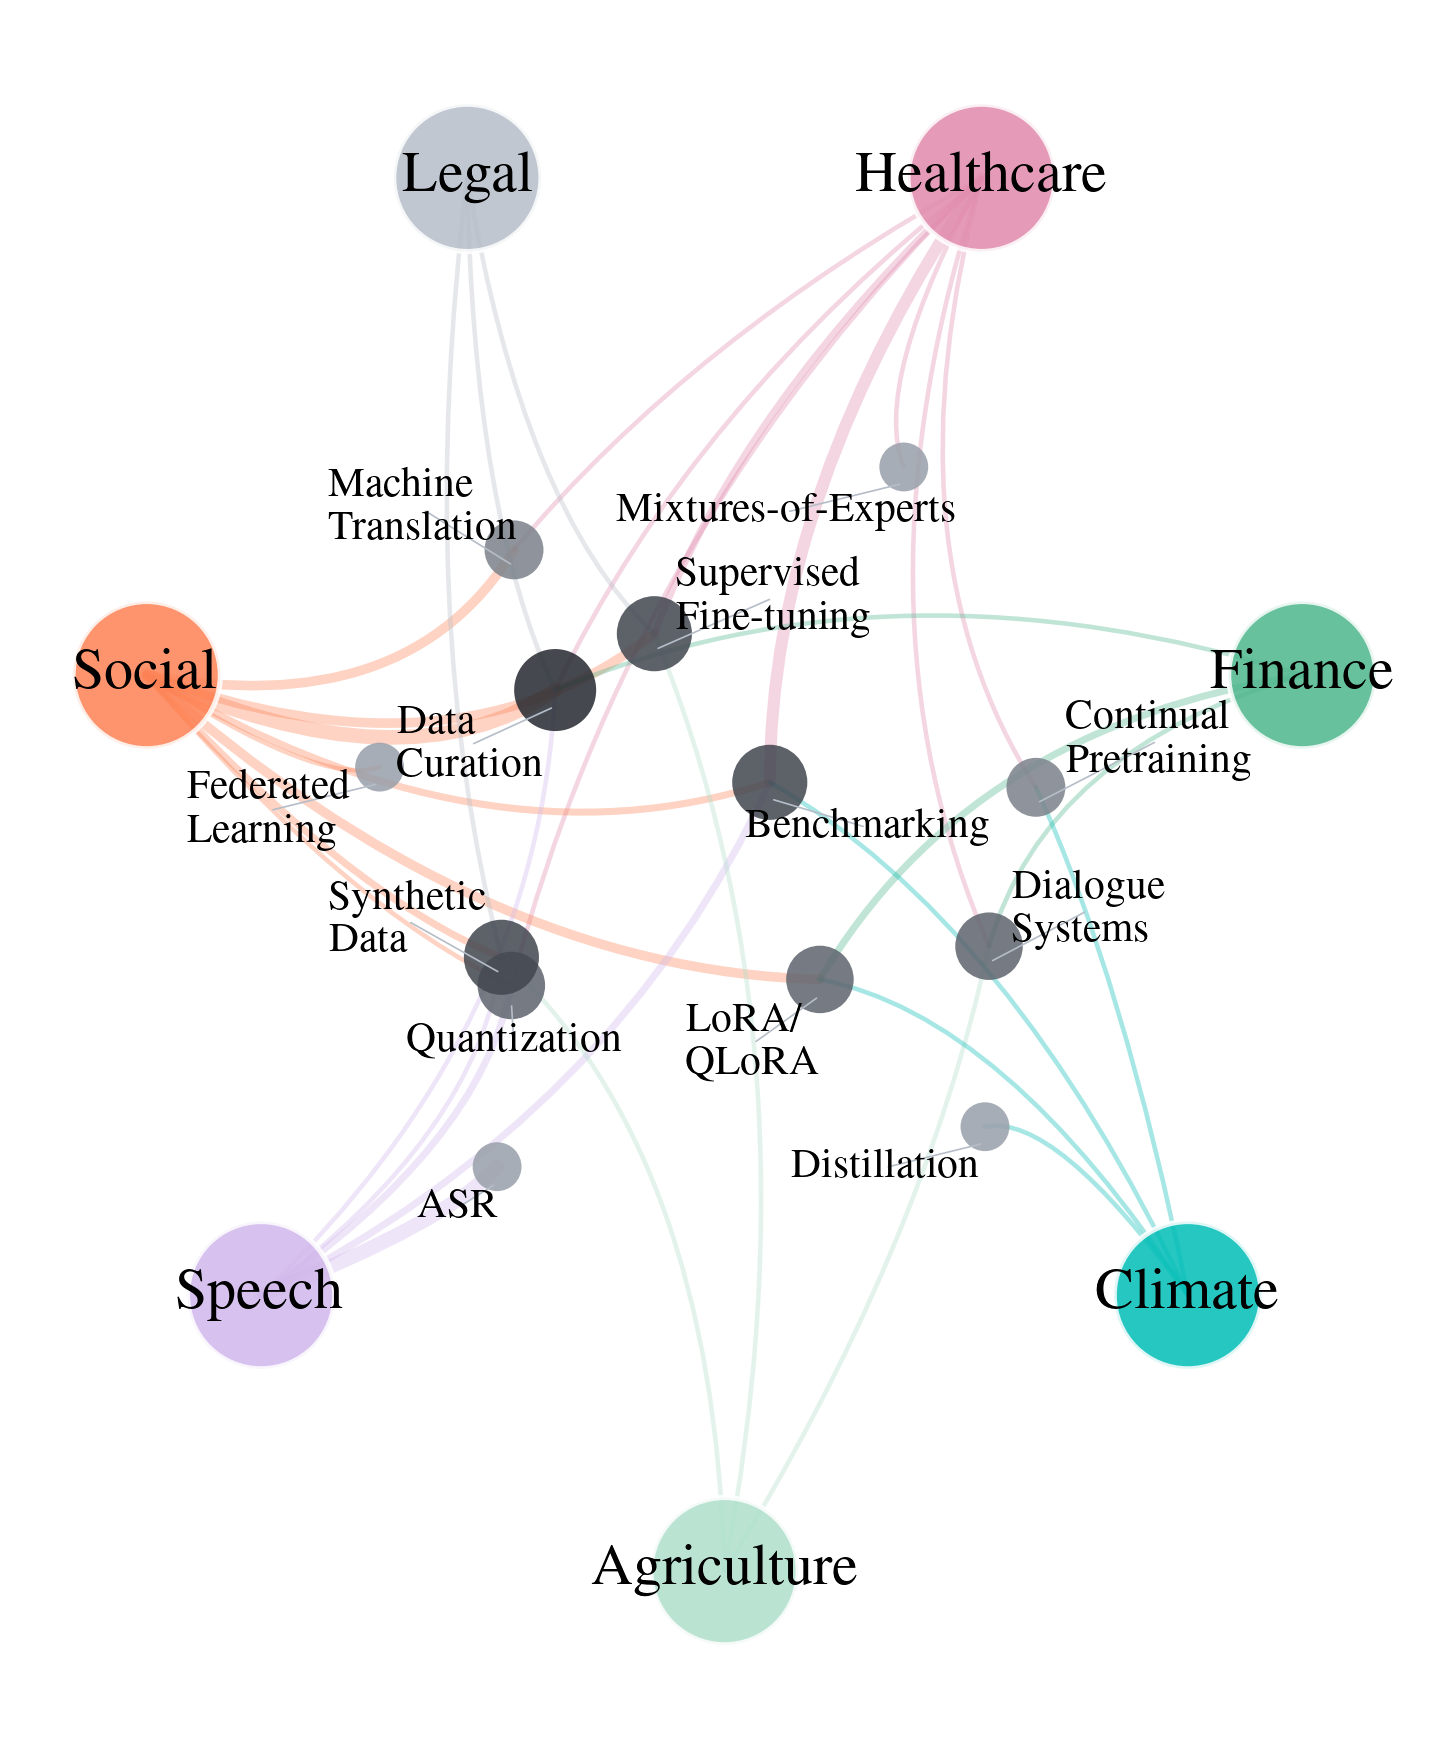
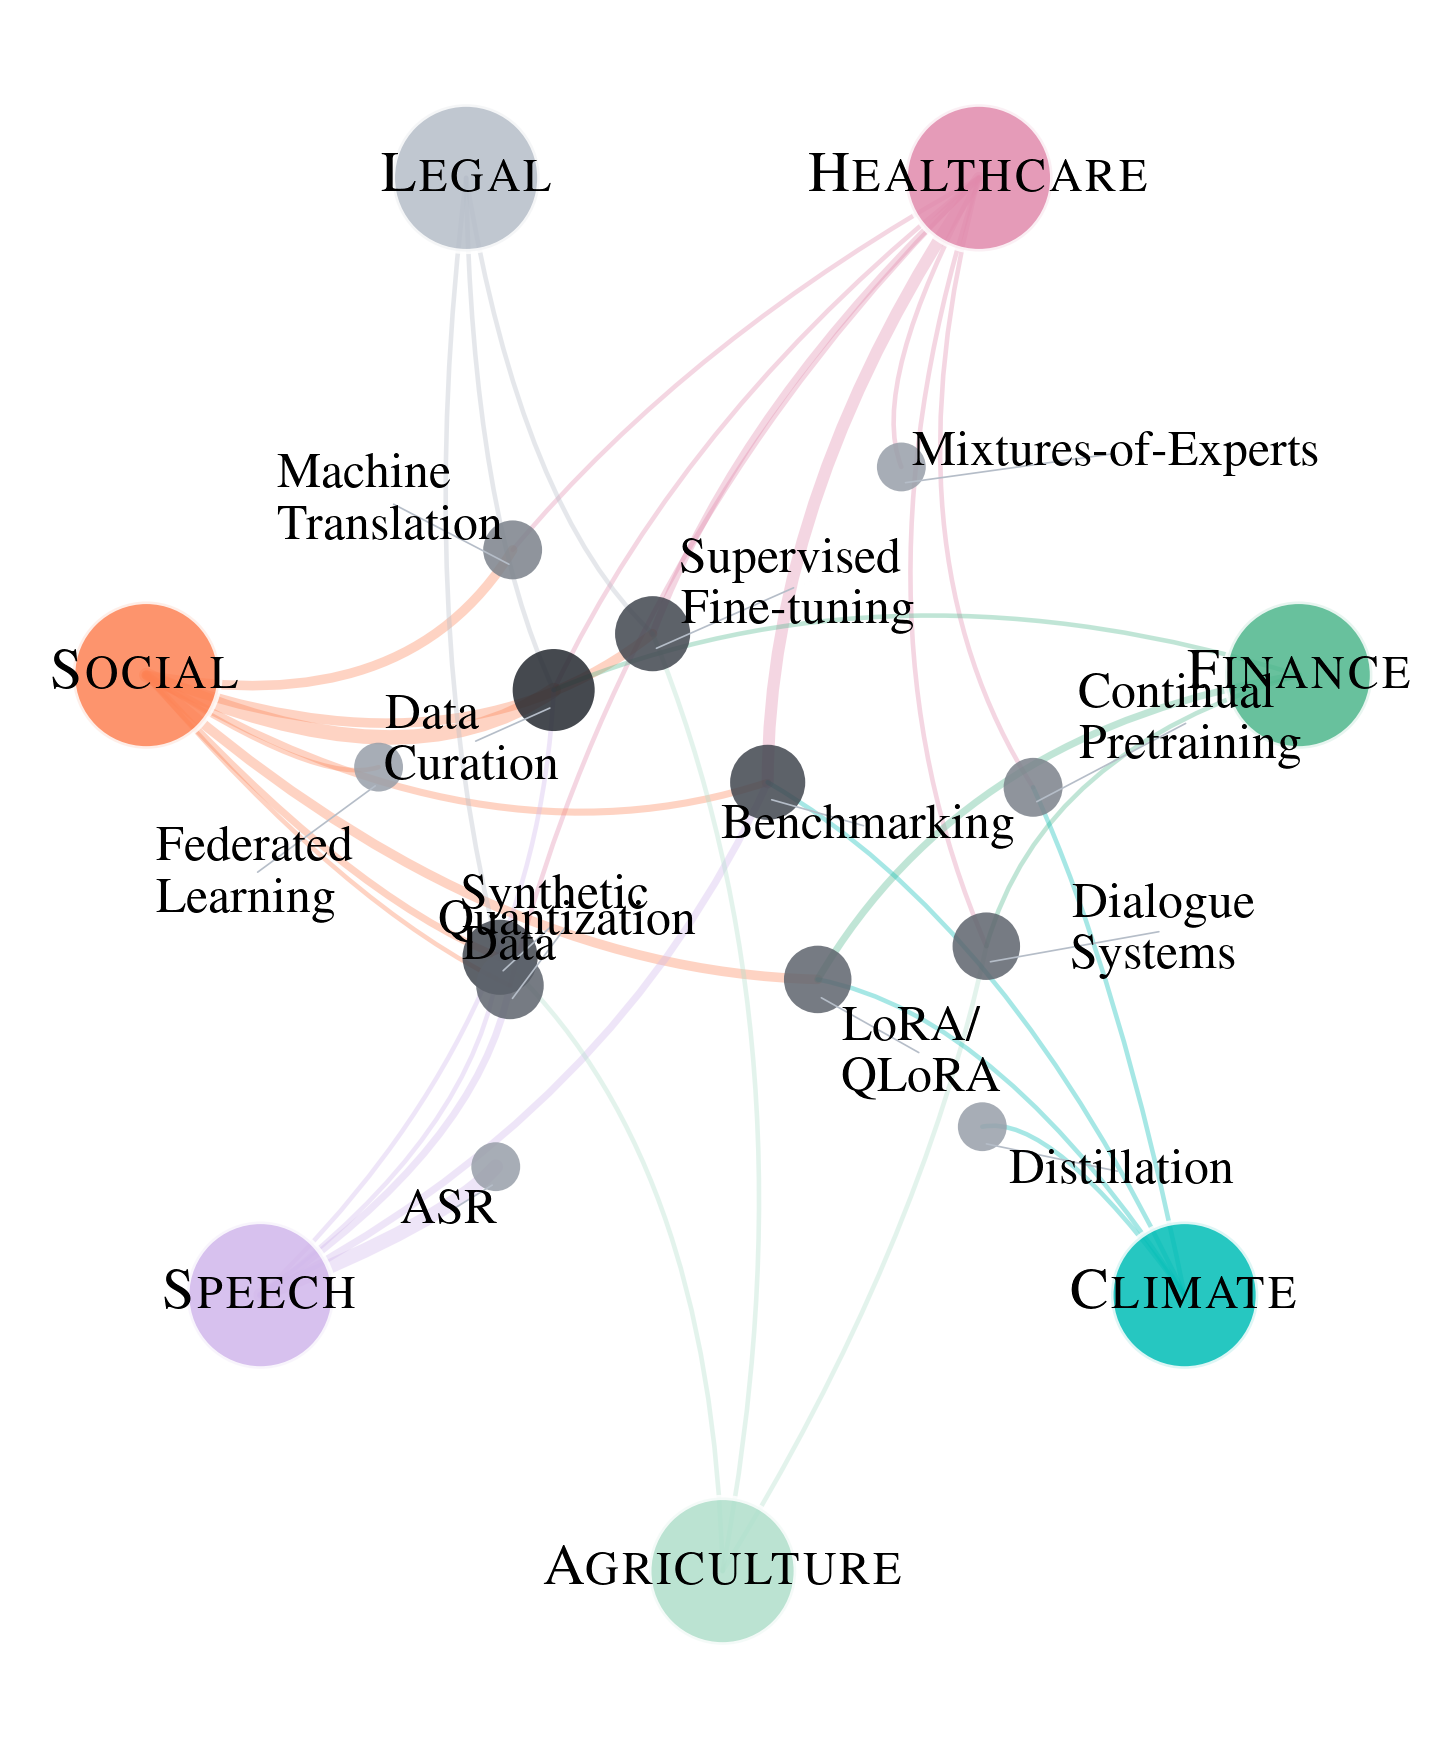
[wip] Update

diff --git a/analysis/deployment_domains.py b/analysis/deployment_domains.py
@@ -306,20 +306,21 @@ def plot_domain_technique_network(
     )
 
     # Domain labels
+    domain_texts = []
     for domain in domain_nodes:
         x, y = pos[domain]
-        ax.text(
+        dt = ax.text(
             x,
             y,
-            domain,
+            r"\textsc{" + domain + r"}",
             ha="center",
             va="center",
             fontsize=28,
-            fontweight="bold",
             fontfamily="serif",
             color="black",
             zorder=5,
         )
+        domain_texts.append(dt)
 
     # Technique labels with arrows
     technique_texts = []
@@ -332,7 +333,7 @@ def plot_domain_technique_network(
             ha="center",
             va="center",
             ma="left",
-            fontsize=20,
+            fontsize=24,
             fontfamily="serif",
             color="black",
             zorder=4,
@@ -342,6 +343,7 @@ def plot_domain_technique_network(
     adjust_text(
         technique_texts,
         ax=ax,
+        add_objects=domain_texts,
         expand=(1.2, 1.2),
         force_text=(0.3, 0.3),
         force_points=(0.65, 0.75),
